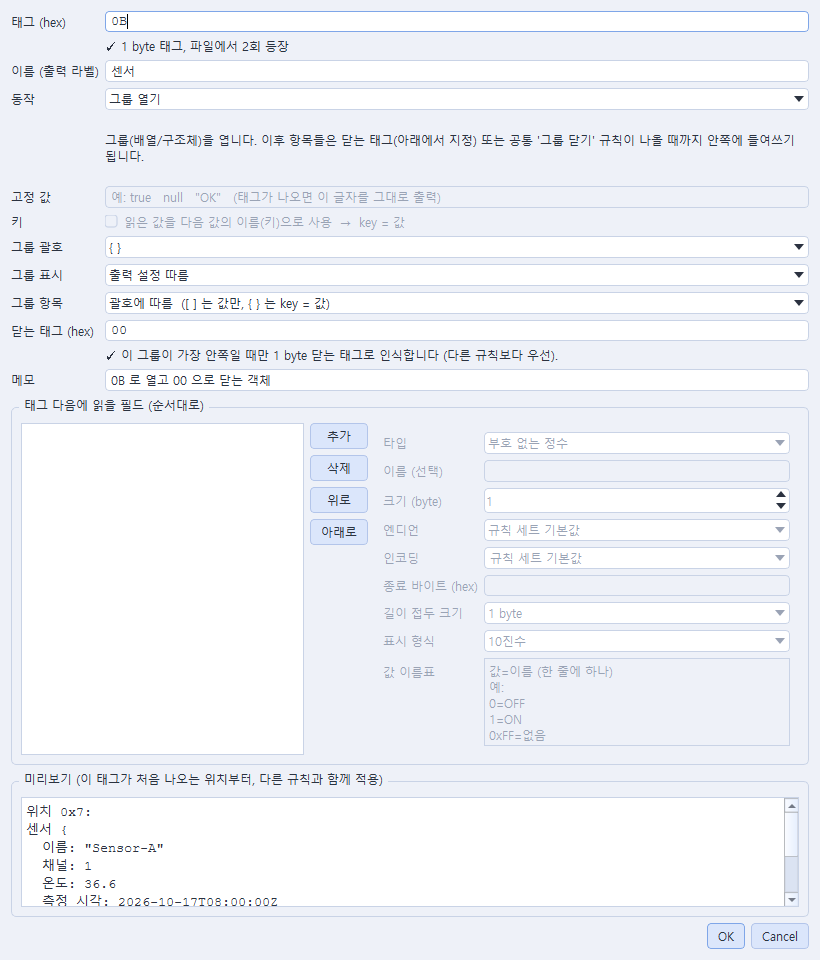
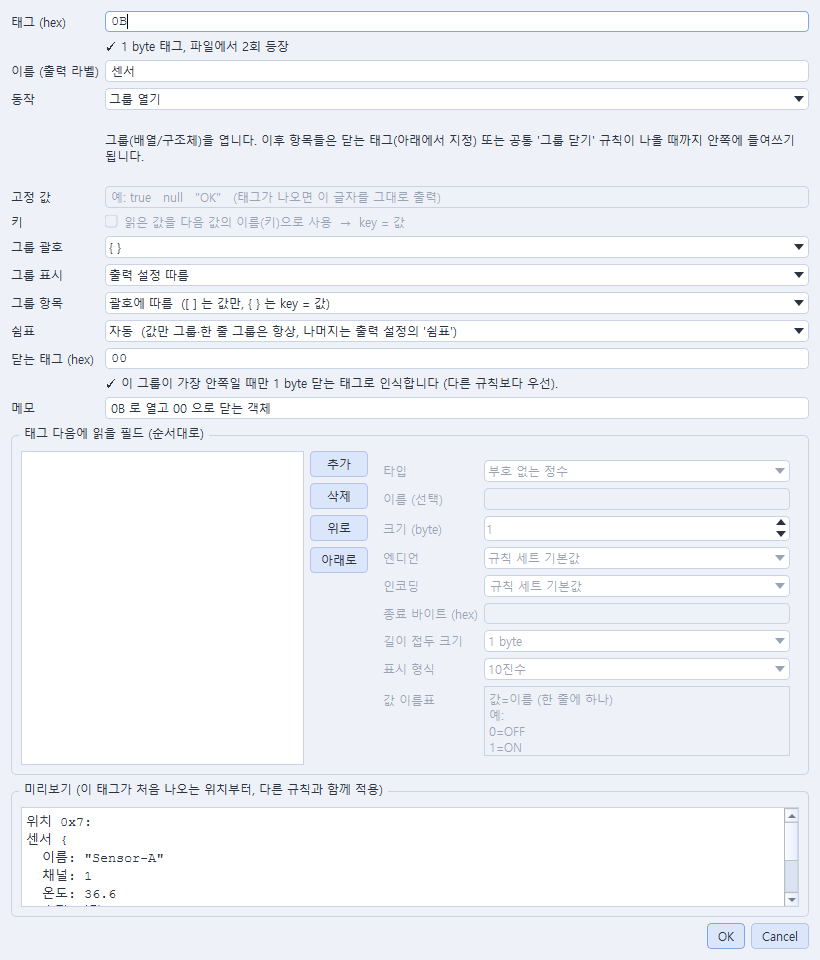
그룹 규칙마다 쉼표 선택 (자동 / 넣음 / 안 넣음)
- 자동(기본): 지금과 같음. 값만 쓰는 그룹·한 줄 그룹은 항상, 나머지는 출력 설정의 쉼표
- 넣음: 체크와 상관없이 항상 쉼표 / 안 넣음: 쉼표 없음, 한 줄이면 공백으로 구분 ([21 22])
- 쉼표 체크 툴팁에 항상 쉼표가 붙는 경우와 규칙 설정 우선을 안내
- 설명서 '그룹마다 쉼표 정하기' 절 추가, README·스크린샷 갱신

diff --git a/binarytotext/rules.py b/binarytotext/rules.py
@@ -50,6 +50,8 @@ KEY_ACTIONS = ("value", "const")  # actions whose result can be the key of the n
 
 # Rule.items choices (group rules): how the items inside the group are shown.
 ITEMS = {"": "괄호에 따름", "named": "key = 값", "values": "값만"}
+# Rule.commas choices (group rules).
+COMMAS = {"": "자동", "on": "쉼표", "off": "쉼표 없음"}
 
 ENCODINGS = ["ascii", "utf-8", "cp949", "euc-kr", "latin-1", "cp1252", "utf-16-le", "utf-16-be",
              "shift_jis", "gbk", "big5"]
@@ -117,6 +119,9 @@ class Rule:
     # Group rules: how items are shown. "" by bracket ([ ] values only, { } key = value),
     # "named" names and key = value, "values" values only (keys are read as plain values).
     items: str = ""
+    # Group rules: commas between items. "" automatic (value lists and one-line groups always,
+    # otherwise the output option), "on" always, "off" never.
+    commas: str = ""
 
     def fields_summary(self) -> str:
         s = ", ".join(f.summary() for f in self.fields)
@@ -130,6 +135,8 @@ class Rule:
             s = f"{s}  [{'한 줄로' if self.layout == 'inline' else '줄마다'}]".strip()
         if self.action not in KEY_ACTIONS and self.items:
             s = f"{s}  [{ITEMS[self.items]}]".strip()
+        if self.action not in KEY_ACTIONS and self.commas:
+            s = f"{s}  [{COMMAS[self.commas]}]".strip()
         return s
 
 
@@ -623,7 +630,8 @@ class RuleEngine:
             a = "open"
         if a == "open":
             text, _ = self._read_fields(r, rule.fields)
-            g = parent.add(Node(pos, r.pos - pos, GROUP, label, text, close=close, layout=rule.layout, items=rule.items))
+            g = parent.add(Node(pos, r.pos - pos, GROUP, label, text, close=close, layout=rule.layout, items=rule.items,
+                                commas=rule.commas))
             stack.append(_Frame(g, rule, end_pat=self.end_pats.get(id(rule)) if rule.action == "open" else None))
             return r.pos, "open"
         if a == "close":
@@ -642,7 +650,8 @@ class RuleEngine:
             count = nums[0] or 0
             text, _ = self._read_fields(r, rule.fields[1:])
             desc = (f"(길이 {count})" if a == "len_block" else f"({count}개)") + (f" {text}" if text else "")
-            g = parent.add(Node(pos, r.pos - pos, GROUP, label, desc, close=close, layout=rule.layout, items=rule.items))
+            g = parent.add(Node(pos, r.pos - pos, GROUP, label, desc, close=close, layout=rule.layout, items=rule.items,
+                                commas=rule.commas))
             if count == 0:
                 return r.pos, "item"
             if a == "len_block":

diff --git a/binarytotext/gui/rule_dialog.py b/binarytotext/gui/rule_dialog.py
@@ -43,6 +43,12 @@ class RuleDialog(QDialog):
                             ("named", "key = 값 / 이름: 값  (이름과 키를 표시)"),
                             ("values", "값만 쉼표로 나열  (이름·키 없이)")])
         set_combo(self.items, self.rule.items)
+        self.commas = combo([("", "자동  (값만 그룹·한 줄 그룹은 항상, 나머지는 출력 설정의 '쉼표')"),
+                             ("on", "넣음  (항목 사이에 항상 쉼표)"),
+                             ("off", "안 넣음  (출력 설정과 상관없이 쉼표 없음)")])
+        set_combo(self.commas, self.rule.commas)
+        self.commas.setToolTip("이 그룹 항목 사이의 쉼표. 마지막 항목 뒤에는 붙지 않습니다.\n"
+                               "안 넣음 + 한 줄로 = [21 22 24] 처럼 공백으로만 구분합니다.")
         self.items.setToolTip("그룹 안 항목을 어떻게 쓸지.\n"
                               "key = 값: 키 규칙이 다음 값의 이름이 되고, 규칙 이름도 표시합니다.\n"
                               "값만: 키 규칙도 평범한 값으로 읽고, 항목을 항상 쉼표로 구분합니다.")
@@ -72,6 +78,7 @@ class RuleDialog(QDialog):
         top.addRow("그룹 괄호", self.bracket)
         top.addRow("그룹 표시", self.layout)
         top.addRow("그룹 항목", self.items)
+        top.addRow("쉼표", self.commas)
         top.addRow("닫는 태그 (hex)", self.end_tag)
         top.addRow("", self.end_msg)
         top.addRow("메모", self.comment)
@@ -100,7 +107,7 @@ class RuleDialog(QDialog):
 
         for w in (self.tag, self.name, self.comment, self.end_tag, self.const_text):
             w.textChanged.connect(self._changed)
-        for c in (self.action, self.bracket, self.layout, self.items):
+        for c in (self.action, self.bracket, self.layout, self.items, self.commas):
             c.currentIndexChanged.connect(self._changed)
         self.key.toggled.connect(self._changed)
         self.fields_editor.changed.connect(self._changed)
@@ -125,6 +132,8 @@ class RuleDialog(QDialog):
         self.rule.layout = self.layout.currentData() if is_group else ""
         self.items.setEnabled(is_group)
         self.rule.items = self.items.currentData() if is_group else ""
+        self.commas.setEnabled(is_group)
+        self.rule.commas = self.commas.currentData() if is_group else ""
         is_open = self.rule.action == "open"
         self.end_tag.setEnabled(is_open)
         end_ok = True

diff --git a/binarytotext/render.py b/binarytotext/render.py
@@ -146,8 +146,15 @@ def iter_lines(root: Node, data: bytes, opts: RenderOptions | None = None) -> It
         if n.kind != GROUP:
             return leaf_text(n, drop_label)
         head = head_of(n, drop_label)
-        body = ", ".join(one_line(c, n.values_only) for c in n.children)
+        sep = " " if n.commas == "off" else ", "  # one line: commas unless the rule turns them off
+        body = sep.join(one_line(c, n.values_only) for c in n.children)
         return f"{head + ' ' if head else ''}{_opener(n.close)}{body}{n.close}"
+
+    def commas_in(n: Node) -> bool:
+        """Commas between the items of a multi-line group: the rule's choice, else value lists always."""
+        if n.commas:
+            return n.commas == "on"
+        return opts.commas or n.values_only
 
     def emit(n: Node, depth: int, tail: str = "", item: bool = False):
         """Yields (node, line); returns False once max_lines is reached.
@@ -167,11 +174,10 @@ def iter_lines(root: Node, data: bytes, opts: RenderOptions | None = None) -> It
             head = head_of(n, item)
             opener = _opener(n.close)
             yield n, f"{prefix(n)}{pad}{head + ' ' if head else ''}{opener}{'' if n.close else tail}{note}".rstrip()
-            array = n.values_only
+            array, commas = n.values_only, commas_in(n)
             last = len(n.children) - 1
             for i, c in enumerate(n.children):
-                comma = "," if (opts.commas or array) and i < last else ""  # value lists always separate items
-                if not (yield from emit(c, depth + 1, comma, array)):
+                if not (yield from emit(c, depth + 1, "," if commas and i < last else "", array)):
                     return False
             if n.close:
                 lines += 1

diff --git a/tests/test_output_options.py b/tests/test_output_options.py
@@ -245,3 +245,19 @@ def test_group_items_choice_per_rule():
     assert render(obj, rs).splitlines() == ["객체 {", '  "k",', "  5,", "  6", "}"]
     assert rs.rules[3].fields_summary().endswith("[값만]")
     assert RuleSet.from_dict(__import__("json").loads(rs.to_json())).rules[3].items == "values"
+
+
+
+def test_group_commas_choice_per_rule():
+    data, rs = sensor_like()
+    # Automatic: the object follows the option, the [ ] list always has commas.
+    assert render(data, rs).splitlines()[:7] == [
+        "센서 {", '  이름: "A"', "  채널: 1", "  기록 [", "    21,", "    22", "  ]"]
+    rs.rules[3].commas = "off"  # the array: no commas, even on one line
+    assert render(data, rs, commas=True).splitlines()[:7] == [
+        "센서 {", '  이름: "A",', "  채널: 1,", "  기록 [", "    21", "    22", "  ]"]
+    assert render(data, rs, layout="arrays").splitlines()[3] == "  기록 [21 22]"
+    rs.rules[0].commas = "on"  # the object: always, even with the option off
+    assert render(data, rs).splitlines()[:3] == ["센서 {", '  이름: "A",', "  채널: 1,"]
+    assert rs.rules[0].fields_summary().endswith("[쉼표]") and rs.rules[3].fields_summary().endswith("[쉼표 없음]")
+    assert RuleSet.from_dict(__import__("json").loads(rs.to_json())).rules[3].commas == "off"

diff --git a/binarytotext/gui/main_window.py b/binarytotext/gui/main_window.py
@@ -286,8 +286,9 @@ class MainWindow(QMainWindow):
                                    "파일에서 읽은 키(key = 값)는 그대로 남습니다.")
         self.chk_labels.setChecked(self.settings.value("labels", True, type=bool))
         self.chk_commas = QCheckBox("쉼표")
-        self.chk_commas.setToolTip("그룹 안의 항목 뒤에 쉼표를 붙입니다 (마지막 항목 제외).\n"
-                                   "한 줄로 이어 쓰는 그룹은 항상 쉼표로 구분합니다.")
+        self.chk_commas.setToolTip("그룹 안의 항목 뒤에 쉼표를 붙입니다 (마지막 항목 제외, 맨 바깥 줄 제외).\n"
+                                   "배열 [ ] 처럼 값만 쓰는 그룹과 한 줄로 쓰는 그룹은 이 체크와 상관없이 항상 쉼표입니다.\n"
+                                   "그룹 규칙의 '쉼표'(넣음 / 안 넣음)를 정하면 그 그룹은 규칙을 따릅니다.")
         self.chk_commas.setChecked(self.settings.value("commas", False, type=bool))
         self.chk_quotes = QCheckBox("따옴표")
         self.chk_quotes.setToolTip("문자열을 \"…\" 로 감싸 표시합니다 (key = \"값\" 포함).\n"

diff --git a/tests/test_gui.py b/tests/test_gui.py
@@ -380,3 +380,16 @@ def test_rule_dialog_group_items(win):
     dlg.action.setCurrentIndex(dlg.action.findData("value"))
     assert not dlg.items.isEnabled() and dlg.rule.items == ""
     dlg.close()
+
+
+
+def test_rule_dialog_commas(win):
+    from binarytotext.gui.rule_dialog import RuleDialog
+    arr = next(r for r in win.ruleset.rules if r.tag == "0A")  # the example set's own 0A array rule
+    dlg = RuleDialog(win, arr, win.ruleset, b"\x0a\x04\x01\x04\x02\x0a")
+    assert dlg.commas.isEnabled() and dlg.rule.commas == ""
+    dlg.commas.setCurrentIndex(dlg.commas.findData("off"))
+    assert dlg.rule.commas == "off" and "," not in dlg.preview.toPlainText().split("\n", 1)[1]
+    dlg.action.setCurrentIndex(dlg.action.findData("value"))
+    assert not dlg.commas.isEnabled() and dlg.rule.commas == ""
+    dlg.close()

diff --git a/binarytotext/model.py b/binarytotext/model.py
@@ -34,6 +34,8 @@ class Node:
     # Groups: "values" = items are plain values (no names, no key = value, commas),
     # "named" = items keep names and keys, "" = by bracket ([ ] values, others named).
     items: str = ""
+    # Groups: "on" / "off" = commas between items regardless of the option, "" = automatic.
+    commas: str = ""
 
     @property
     def end(self) -> int:

diff --git a/CLAUDE.md b/CLAUDE.md
@@ -27,7 +27,7 @@ Run from this folder with the project venv.
 - `heuristics.py`: strings (ASCII/UTF-8/UTF-16/CP949), tag/rule suggestions, entropy, magic, record periods, format ranking (`FormatScore.score` penalises errors, 1-byte noise and many roots).
 - `preprocess.py`: stdlib-only transforms (decompress, base64, hex text, XOR, skip).
 - `render.py`: Node tree → text (optional `line_nodes` maps each line back to a node for GUI linking) or JSON. `iter_lines` is the generator behind everything; files are written with `write_text`/`write_json` (streamed, via `<name>.part` then replace), never by building the whole string. `Node.walk` is iterative.
-  Output rules: items of a value-only group (`Node.values_only`: `Rule.items` "values", or "" with a `]` bracket) have no label and no `key =` and are always comma-separated (the engine also never pairs keys inside such frames); with `quotes=False` a string keeps its quotes only if it is empty or holds blanks/separators/quotes/escapes (`_NEEDS_QUOTES`); `header_footer=False` drops root children with `Node.part`; floats use exponents in steps of 3 (`reader.eng`: `12.3e-6`).
+  Output rules: items of a value-only group (`Node.values_only`: `Rule.items` "values", or "" with a `]` bracket) have no label and no `key =` and are comma-separated (the engine also never pairs keys inside such frames); `Rule.commas`/`Node.commas` "on"/"off" override commas per group, "" = automatic (`commas_in`); with `quotes=False` a string keeps its quotes only if it is empty or holds blanks/separators/quotes/escapes (`_NEEDS_QUOTES`); `header_footer=False` drops root children with `Node.part`; floats use exponents in steps of 3 (`reader.eng`: `12.3e-6`).
   `RenderOptions.float_digits` is applied at decode time (values are already text in the tree): every decode call site wraps the decode in `reader.float_digits(n)` (a context variable, so threads don't affect each other), and decoders format floats only via `float_text`/`fmt_float`.
 - `gui/`: `main_window.py` (decoding and saving run in `QThread`s with a 64 MB stack, never on the GUI thread; decodes use a generation counter and stale results are dropped; the output options live in `out_panel` above the result tabs), `hexview.py` (table-model hex view + inspector), `field_editor.py` (shared FieldSpec list editor), `rule_dialog.py` (rule editor with live preview), `header_dialog.py` (header/footer), `theme.py` (color themes: one `Theme` color table → Fusion palette + stylesheet; styled combo/spin/check boxes lose native arrows and marks, so `theme.py` draws them as PNGs in the temp folder. Applied by `MainWindow` from the `theme` setting).
 

diff --git a/README.md b/README.md
@@ -62,7 +62,7 @@
   오프셋 / 원본 hex / **이름**(끄면 라벨 없이 값만) / **따옴표**(끄면 따옴표 없이, 빈 문자열과 공백·특수문자가 든 문자열만 `"…"`) / **쉼표**(그룹 안 항목 뒤) / **그룹**(줄마다, 배열만 한 줄,
   한 줄로) / **실수 유효 숫자**(자동 또는 1~17자리) / **화면 줄 수**(화면에만, 기본 20만) / **헤더/꼬리**(끄면 출력에서 뺌).
   배열 `[ ]` 안은 기본으로 값만 쉼표로 구분해 쓰고(이름·`key =` 없음), 객체 `{ }` 안은 `key = 값` 으로 씁니다.
-  그룹 규칙의 *그룹 항목* 으로 그룹마다 `key = 값` / 값만 을 고를 수 있습니다. 실수의 지수는 3의 배수로 씁니다(`12.3e-6`, `15e6`).
+  그룹 규칙의 *그룹 항목* 으로 그룹마다 `key = 값` / 값만 을, *쉼표* 로 자동 / 넣음 / 안 넣음을 고를 수 있습니다. 실수의 지수는 3의 배수로 씁니다(`12.3e-6`, `15e6`).
   그룹 규칙마다 *그룹 표시* 로 따로 정할 수도 있습니다. 출력 모양은 저장 파일에도 적용됩니다.
 - 상태 표시줄 오른쪽 **테마**: 파스텔 블루(기본) / 민트 / 라벤더 / 피치, 소프트 다크, 레트로 터미널, 세피아 종이,
   Windows 기본. 고른 테마는 다음 실행에도 유지됩니다.
